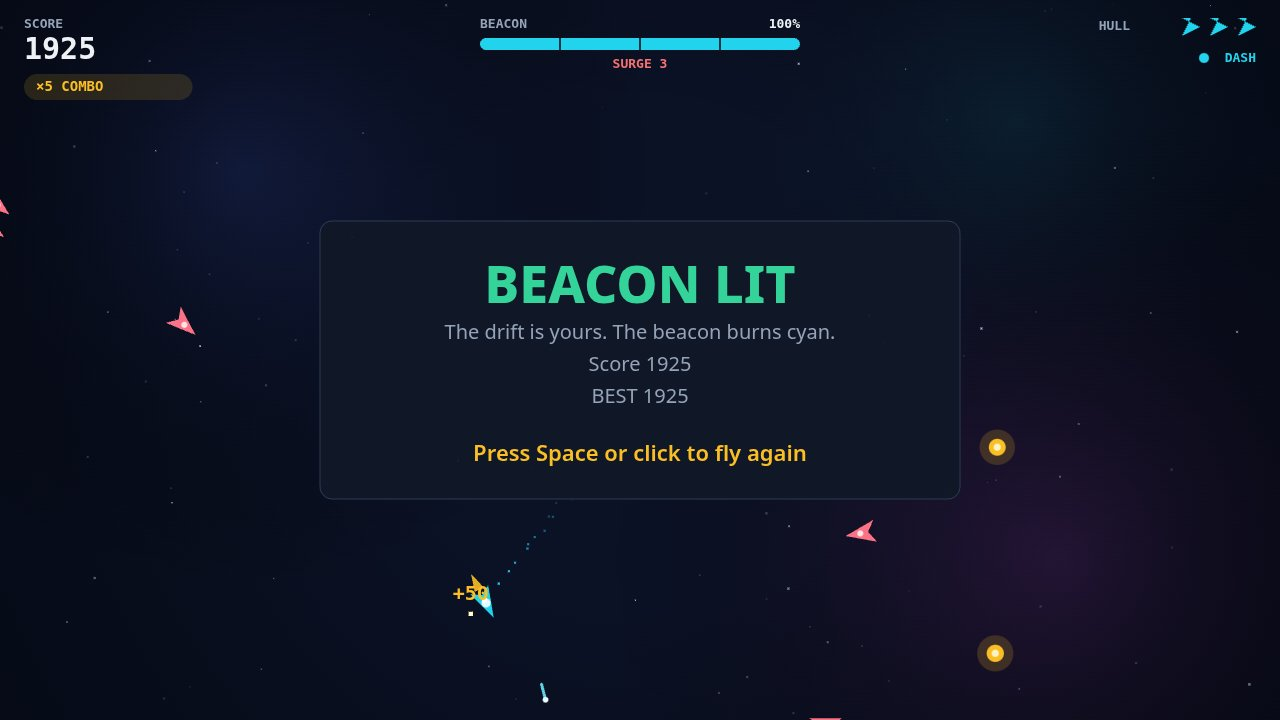
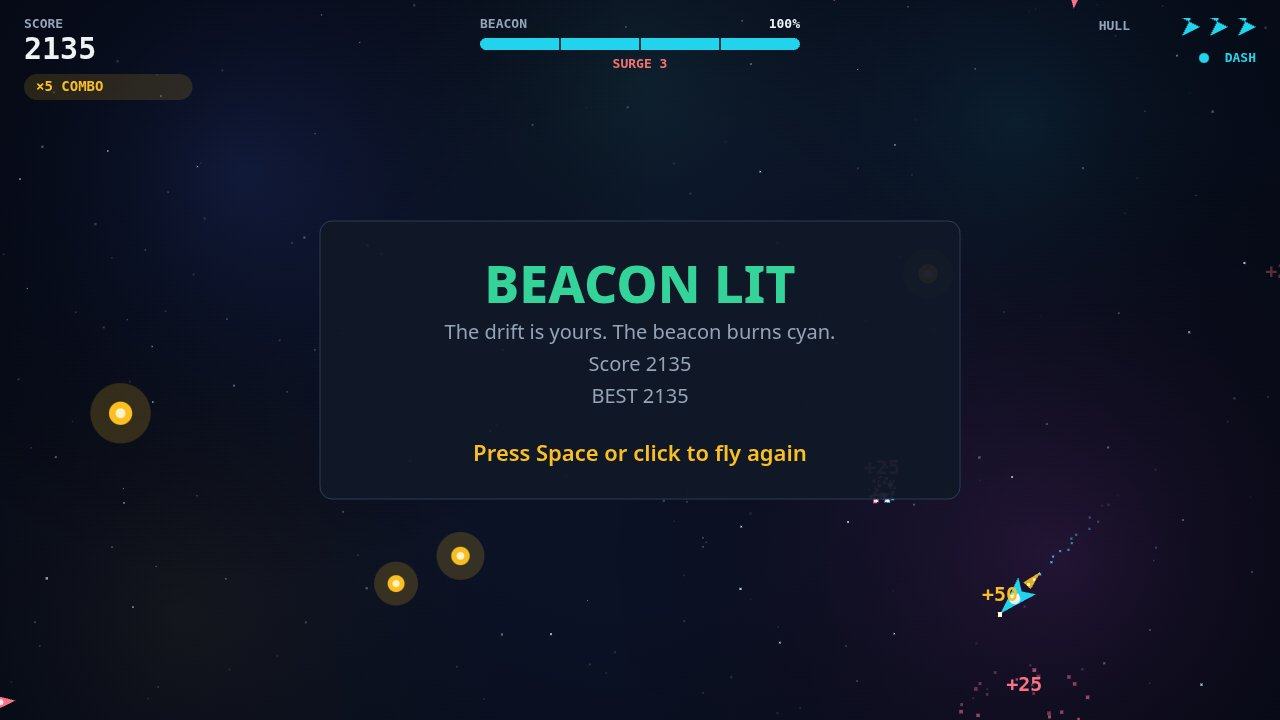
Denser spawns + visuals, re-stage play shot

diff --git a/game/src/world.js b/game/src/world.js
@@ -19,7 +19,7 @@ export const EVENT_SURGE = 32;
 export const EVENT_DASH = 64;
 export const EVENT_SHOOT = 128;
 
-const STAR_COUNT = 96;
+const STAR_COUNT = 200;
 
 function dist2(ax, ay, bx, by) {
   const dx = ax - bx;
@@ -217,7 +217,7 @@ export function createWorld(random) {
       player.dashT = DASH.time;
       player.dashCd = DASH.cooldown;
       player.invuln = Math.max(player.invuln, DASH.invulnerable);
-      burst(player.x, player.y, '#22d3ee', 10, 220, 0.35);
+      burst(player.x, player.y, '#22d3ee', 18, 220, 0.35);
       events |= EVENT_DASH;
     }
     if (player.dashCd > 0) player.dashCd -= dt;
@@ -255,7 +255,7 @@ export function createWorld(random) {
     }
 
     // Thruster sparkle while the ship is under power.
-    if ((control.mx !== 0 || control.my !== 0) && player.dashT <= 0 && random() < 0.5) {
+    if ((control.mx !== 0 || control.my !== 0) && player.dashT <= 0 && random() < 0.85) {
       const back = Math.atan2(player.vy, player.vx) + Math.PI;
       const p = free(particles);
       if (p !== null) {
@@ -307,14 +307,14 @@ export function createWorld(random) {
         state.score += points;
         state.charge = Math.min(100, state.charge + ORB_CHARGE);
         popup(orb.x, orb.y - 14, `+${points}`, '#fbbf24');
-        burst(orb.x, orb.y, '#fbbf24', 12, 200, 0.45);
+        burst(orb.x, orb.y, '#fbbf24', 20, 200, 0.45);
         if (state.combo < COMBO_MAX) state.combo += 1;
         state.comboT = COMBO_WINDOW;
         events |= EVENT_ORB;
         if (state.charge >= 100) {
           state.won = true;
           state.score += WIN_BONUS + WIN_PER_HULL * player.hull;
-          burst(player.x, player.y, '#22d3ee', 40, 320, 0.9);
+          burst(player.x, player.y, '#22d3ee', 64, 320, 0.9);
           events |= EVENT_WIN;
           break;
         }
@@ -362,12 +362,12 @@ export function createWorld(random) {
         // Knock the ship away from the impact.
         player.vx = (player.x - drone.x) / len * 420;
         player.vy = (player.y - drone.y) / len * 420;
-        burst(player.x, player.y, '#fb7185', 18, 260, 0.6);
+        burst(player.x, player.y, '#fb7185', 28, 260, 0.6);
         popup(player.x, player.y - 24, 'HULL -1', '#fb7185');
         events |= EVENT_HIT;
         if (player.hull <= 0) {
           state.over = true;
-          burst(player.x, player.y, '#eef2f7', 46, 380, 1);
+          burst(player.x, player.y, '#eef2f7', 72, 380, 1);
           events |= EVENT_OVER;
           break;
         }
@@ -394,12 +394,12 @@ export function createWorld(random) {
           bolt.active = false;
           drone.hp -= 1;
           drone.hitT = 0.09;
-          burst(bolt.x, bolt.y, '#67e8f9', 6, 160, 0.3);
+          burst(bolt.x, bolt.y, '#67e8f9', 10, 160, 0.3);
           if (drone.hp <= 0) {
             drone.active = false;
             state.score += DRONE.points;
             popup(drone.x, drone.y - 14, `+${DRONE.points}`, '#fb7185');
-            burst(drone.x, drone.y, '#fb7185', 22, 300, 0.7);
+            burst(drone.x, drone.y, '#fb7185', 36, 300, 0.7);
             events |= EVENT_DRONE_DOWN;
           }
           break;

diff --git a/game/src/render.js b/game/src/render.js
@@ -54,6 +54,8 @@ export function createRenderer(canvas) {
     glow(240, 170, 420, 'rgba(22,34,77,0.85)');
     glow(1060, 560, 460, 'rgba(59,29,78,0.7)');
     glow(1020, 120, 300, 'rgba(34,211,238,0.10)');
+    glow(180, 620, 380, 'rgba(251,191,36,0.07)');
+    glow(640, 80, 340, 'rgba(52,211,153,0.08)');
     const vig = g.createRadialGradient(640, 360, 240, 640, 360, 780);
     vig.addColorStop(0, 'rgba(0,0,0,0)');
     vig.addColorStop(1, 'rgba(2,4,10,0.55)');
@@ -123,7 +125,7 @@ export function createRenderer(canvas) {
       context.globalAlpha = orb.life < 3 ? 0.35 + 0.65 * (0.5 + 0.5 * Math.sin(orb.life * 8)) : 1;
       context.fillStyle = 'rgba(251,191,36,0.18)';
       context.beginPath();
-      context.arc(orb.x, orb.y, r * 2.1, 0, Math.PI * 2);
+      context.arc(orb.x, orb.y, r * 2.6, 0, Math.PI * 2);
       context.fill();
       context.fillStyle = PALETTE.orb;
       context.beginPath();
@@ -202,7 +204,7 @@ export function createRenderer(canvas) {
     context.rotate(p.angle);
     const thrusting = Math.hypot(p.vx, p.vy) > 60;
     if (thrusting || p.dashT > 0) {
-      const flame = p.dashT > 0 ? 30 : 14 + 6 * Math.sin(state.elapsed * 30);
+      const flame = p.dashT > 0 ? 38 : 18 + 8 * Math.sin(state.elapsed * 30);
       context.fillStyle = 'rgba(251,191,36,0.9)';
       context.beginPath();
       context.moveTo(-SHIP.radius + 2, 5);
@@ -221,7 +223,7 @@ export function createRenderer(canvas) {
     context.fill();
     context.fillStyle = PALETTE.shipCore;
     context.beginPath();
-    context.arc(3, 0, 4.5, 0, Math.PI * 2);
+    context.arc(3, 0, 5.5, 0, Math.PI * 2);
     context.fill();
     context.restore();
     // Dash leaves a fading cyan wake.

diff --git a/game/src/config.js b/game/src/config.js
@@ -18,12 +18,12 @@ export const COMBO_WINDOW = 3;
 export const COMBO_MAX = 5;
 
 export const SHIP = {
-  radius: 14,
+  radius: 17,
   accel: 1500,
   maxSpeed: 340,
   /** Velocity kept each second without thrust (exponential damping). */
   damping: 2.4,
-  fireInterval: 0.18,
+  fireInterval: 0.16,
   invulnerable: 1.5,
 };
 
@@ -34,12 +34,12 @@ export const DASH = {
   cooldown: 2.5,
 };
 
-export const BOLT = { radius: 4, speed: 920, life: 0.8 };
+export const BOLT = { radius: 4, speed: 920, life: 1.0 };
 
 export const ORB = {
   radius: 10,
-  interval: 1.3,
-  max: 5,
+  interval: 1.0,
+  max: 6,
   drift: 34,
   /** Seconds an orb floats before it fades out uncollected. */
   life: 12,
@@ -53,12 +53,12 @@ export const DRONE = {
   /** Steering accel toward the ship, and top speed, at surge 0; both grow per surge. */
   accel: 480,
   accelPerSurge: 100,
-  maxSpeed: 150,
+  maxSpeed: 165,
   speedPerSurge: 26,
-  interval: 2.0,
+  interval: 1.6,
   intervalPerSurge: 0.35,
   minInterval: 0.8,
-  max: 4,
+  max: 6,
   maxPerSurge: 2,
 };
 
@@ -70,7 +70,7 @@ export const WIN_BONUS = 250;
 export const WIN_PER_HULL = 100;
 
 /** How many of each thing can exist at once; the pools are allocated once, at boot. */
-export const POOLS = { orbs: 16, drones: 24, bolts: 48, particles: 256, popups: 16 };
+export const POOLS = { orbs: 24, drones: 32, bolts: 48, particles: 512, popups: 24 };
 
 /**
  * Palette. One accent (cyan) carries the ship, the beacon and the primary text;
